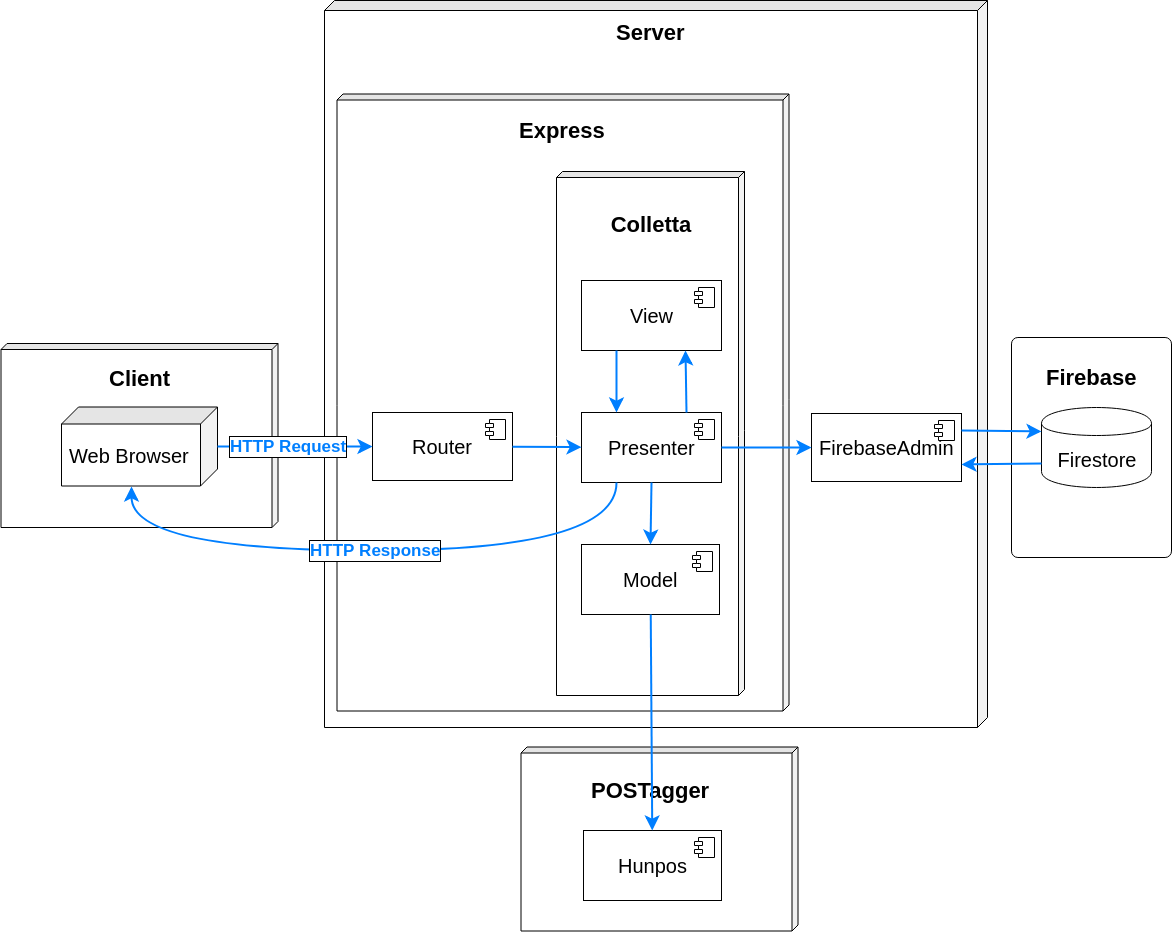
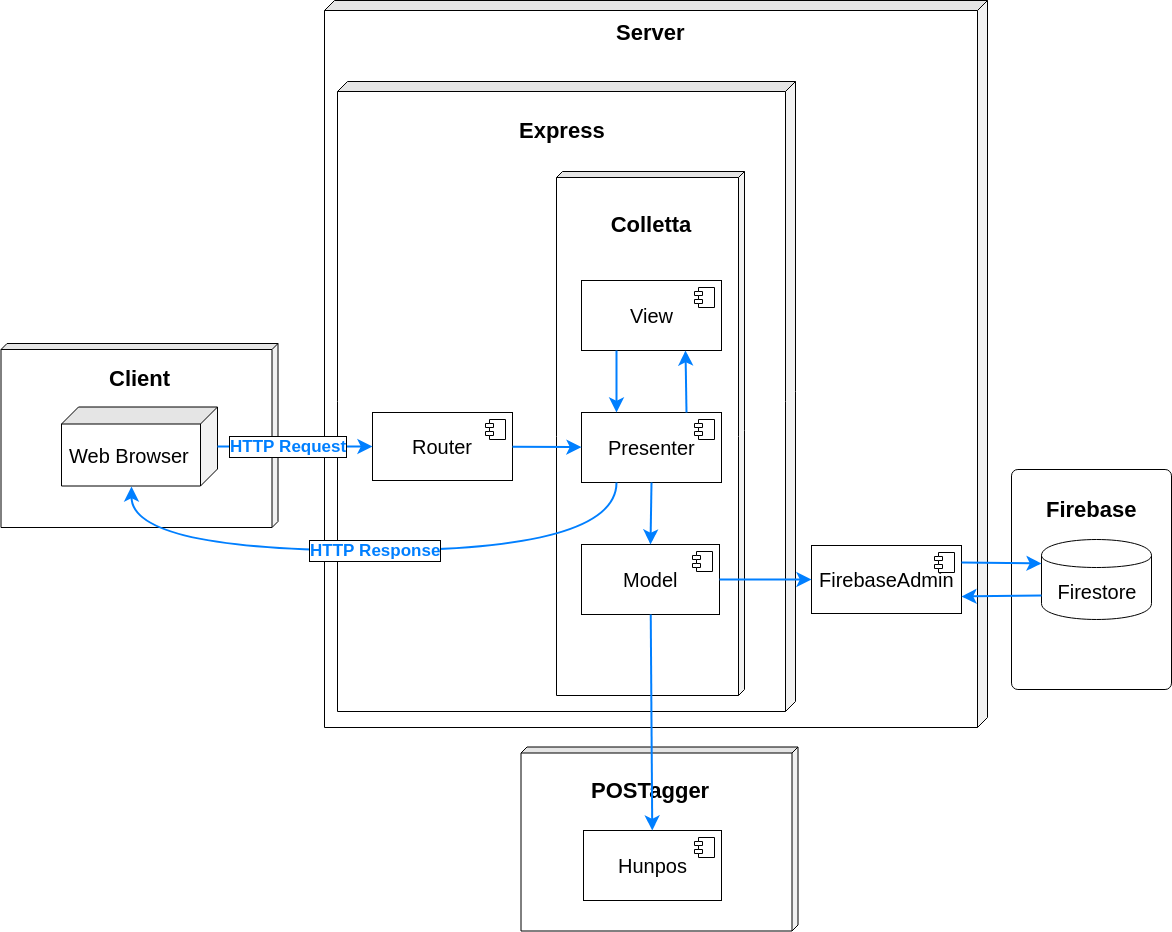
Correzioni a sezione 5 e a sezione 2

Changed region(s): [[0.2765, 0.0622, 0.9829, 0.7779], [0.8601, 0.3734, 0.9829, 0.5601]]

diff --git a/docs/ManualeSviluppatore/architettura.tex b/docs/ManualeSviluppatore/architettura.tex
@@ -1,4 +1,11 @@
-La nostra architettura utilizza il framework$^{*}$ Express ed il servizio di database fornito da Firebase (Firestore). L'architettura dell'applicazione è client-server$^{*}$ ed è costituita da tre principali parti: model (che gestisce le operazioni sul database), presenter (che gestisce la logica dell'applicazione) e view (che gestisce la visualizzazione delle pagine web). Il sistema permette:
+La nostra architettura utilizza il framework$^{*}$ Express ed il servizio di database fornito da Firebase (Firestore). Il funzionamento della nostra applicazione si basa su un'architettura three-tier$^{*}$ costituita da:
+\begin{itemize}
+	\item Client: tramite il Web Browser$^*$, effettua le richieste HTTP all'applicazione;
+	\item Server: avvia il framework Express che ``smista" le richieste tra i Presenter di Colletta in ascolto;
+	\item Firebase: contiene e mantiene il database in cloud.
+\end{itemize}
+
+Colletta è suddivisa in tre parti: model (che gestisce le operazioni sul database), presenter (che gestisce la logica dell'applicazione) e view (che gestisce la visualizzazione delle pagine web). Il sistema permette:
 \begin{itemize}
 	\item lo svolgimento di esercizi di analisi grammaticale (e ottenimento di una valutazione automatica) e la scrittura dei dati, come ad esempio la soluzione, su un database Firestore messo a disposizione da Firebase;
 	\item la visualizzazione e l'utilizzo di un software di apprendimento automatico per il riconoscimento delle classi grammaticali delle parole di una frase.

diff --git a/docs/ManualeSviluppatore/installazione.tex b/docs/ManualeSviluppatore/installazione.tex
@@ -9,15 +9,13 @@ Colletta è in generale compatibile con qualsiasi dispositivo, tuttavia garantia
 		\item Mozilla Firefox 61
 		\item Safari 12
 	\end{itemize}
+	\item Sistemi operativi supportati:
+	\begin{itemize}
+		\item Linux Ubuntu
+		\item MacOS Mojave
+	\end{itemize}
 \end{itemize}
 \subsection{Requisiti hardware}
-\subsubsection{Requisiti per Windows}
-\begin{itemize}
-	\item Sistema: Windows 7, 8 or 10, 32-bit or 64-bit
-	\item RAM: 1GB
-	\item Hard-drive: 1GB di spazio
-	\item Connessione ad Internet: obbligatoria
-\end{itemize}
 \subsubsection{Requisiti per Linux}
 \begin{itemize}
 	\item Sistema: Ubuntu 17.10

diff --git a/docs/ManualeSviluppatore/estensioni.tex b/docs/ManualeSviluppatore/estensioni.tex
@@ -27,5 +27,5 @@ Lo stesso procedimento è valido anche nel caso in cui venga aggiunto un nuovo t
 \begin{figure}[ht]
 	\centering
 	\includegraphics[scale=0.75]{images/newfirebasemanager.png}
-	\caption{Aggiunta di una vista all'applicazione}
+	\caption{Aggiunta di un nuovo gestore della base di dati}
 \end{figure}
